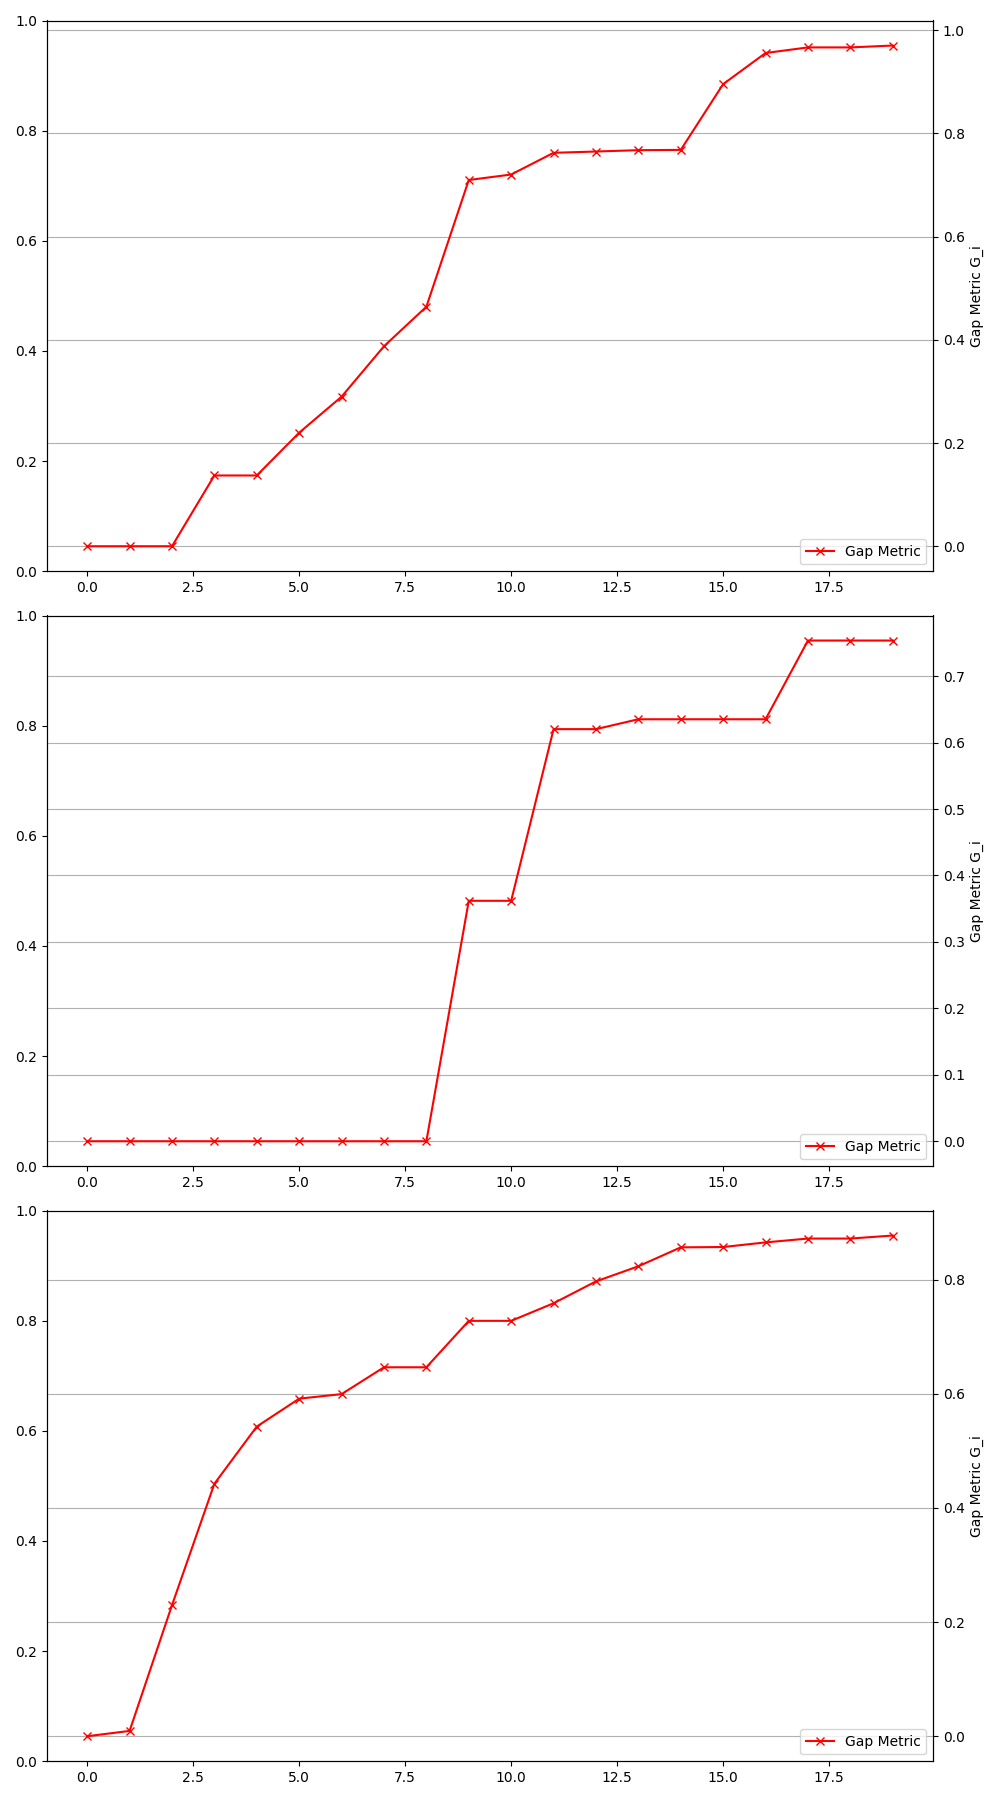
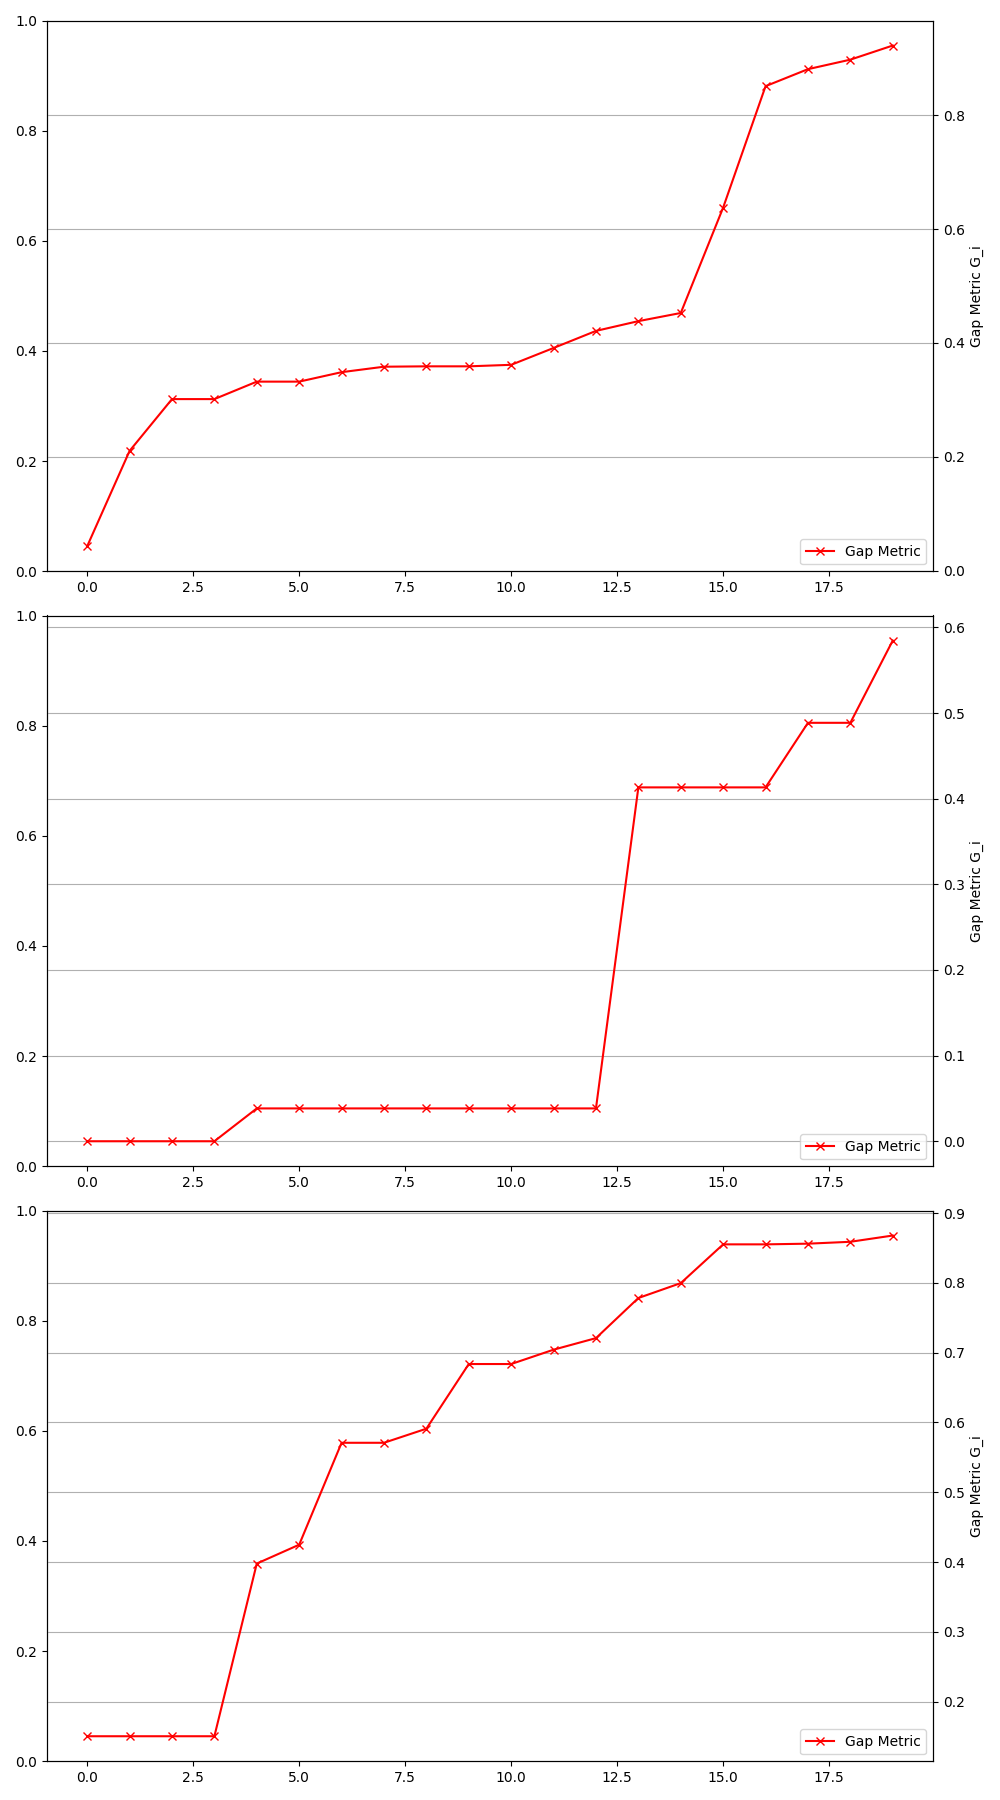
Yq

diff --git a/Code/yuanqing/test.py b/Code/yuanqing/test.py
@@ -3,12 +3,10 @@ import gpytorch
 import torch
 import numpy as np
 import matplotlib.pyplot as plt
-from botorch.test_functions import Hartmann, Ackley, Rosenbrock, Levy, Powell
-from botorch.models import SingleTaskGP
-from gpytorch.mlls.exact_marginal_log_likelihood import ExactMarginalLogLikelihood
-from botorch import fit_gpytorch_mll
+from botorch.test_functions import Hartmann, Ackley
 from botorch.acquisition import ExpectedImprovement, UpperConfidenceBound, ProbabilityOfImprovement
 from botorch.optim import optimize_acqf
+from rfgp_yq import RfgpModel
 import warnings
 
 warnings.filterwarnings("ignore")
@@ -21,19 +19,6 @@ true_maxima = {
     "Ackley": 0.0,  
 }
 
-class RFF:
-    def __init__(self, input_dim, num_features, sigma=1.0):
-        self.input_dim = input_dim
-        self.num_features = num_features
-        self.sigma = sigma
-        self.W = np.random.normal(scale=1.0/self.sigma, size=(self.input_dim, self.num_features))
-        self.b = np.random.uniform(0, 2 * np.pi, size=self.num_features)
-
-    def transform(self, X):
-        norm = 1.0 / np.sqrt(self.num_features)
-        projection = X @ self.W + self.b
-        return norm * np.sqrt(2.0) * np.concatenate([np.cos(projection), np.sin(projection)], axis=-1)
-
 def gap_metric(f_start, f_current, f_star):
     return np.abs((f_start - f_current) / (f_start - f_star))
 
@@ -41,79 +26,55 @@ def target_function(individuals):
     result = []
     for x in individuals:
         result.append(-1.0 * hart6(x))
-    return torch.tensor(result, dtype=torch.double)
+    return torch.tensor(result, dtype=torch.float)
 
 def generate_initial_data(n, n_dim):
-    train_x = torch.rand(n, n_dim, dtype=torch.double)  
+    train_x = torch.rand(n, n_dim, dtype=torch.float)  
     exact_obj = target_function(train_x).unsqueeze(-1)
     best_observed_value = exact_obj.max().item()
     return train_x, exact_obj, best_observed_value
 
 def fit_model(train_x, train_y, kernel_type):
-    if kernel_type == 'RBF':
-        covar_module = gpytorch.kernels.ScaleKernel(gpytorch.kernels.RBFKernel())
-    elif kernel_type == 'Matern':
-        covar_module = gpytorch.kernels.ScaleKernel(gpytorch.kernels.MaternKernel())
-    elif kernel_type == 'RQ':
-        covar_module = gpytorch.kernels.ScaleKernel(gpytorch.kernels.RQKernel())
-    else:
-        raise ValueError(f"Unknown kernel type: {kernel_type}")
+    model = RfgpModel(in_dim=train_x.shape[1], out_dim=1, J=20)
+    model.fit(train_x, train_y)
+    return model, None  
 
-    class CustomGP(SingleTaskGP):
-        def __init__(self, train_x, train_y):
-            super().__init__(train_x, train_y)
-            self.covar_module = covar_module
-
-    model = CustomGP(train_x, train_y)
-    mll = ExactMarginalLogLikelihood(model.likelihood, model)
-    fit_gpytorch_mll(mll)
-    return model, mll
-
-def calculate_weights(models, mlls, train_x, train_y):
-    log_likelihoods = np.array([mll(models[i](train_x), train_y).sum().item() for i, mll in enumerate(mlls)])
-    max_log_likelihood = np.max(log_likelihoods)
-    log_likelihoods -= max_log_likelihood  
-    weights = np.exp(log_likelihoods) / np.sum(np.exp(log_likelihoods))
-    return weights
+def calculate_weights(models, train_x, train_y):
+    return np.ones(len(models)) / len(models)
 
 def select_model(weights):
     return np.random.choice(len(weights), p=weights)
 
 def get_next_points(train_x, train_y, best_init_y, bounds, eta, n_points=1, gains=None, kernel_types=['RBF', 'Matern', 'RQ'], acq_func_types=['EI', 'UCB', 'PI']):
-
     models = []
-    mlls = []
-    for kernel in kernel_types:
-        model, mll = fit_model(train_x, train_y, kernel)
+    for _ in kernel_types:
+        model, _ = fit_model(train_x, train_y, None)
         models.append(model)
-        mlls.append(mll)
 
-    weights = calculate_weights(models, mlls, train_x, train_y)
+    weights = calculate_weights(models, train_x, train_y)
     selected_model_index = select_model(weights)
     selected_model = models[selected_model_index]
 
-    with gpytorch.settings.cholesky_jitter(1e-1):  # Adding jitter
-        EI = ExpectedImprovement(model=selected_model, best_f=best_init_y)
-        UCB = UpperConfidenceBound(model=selected_model, beta=0.1)
-        PI = ProbabilityOfImprovement(model=selected_model, best_f=best_init_y)
+    EI = ExpectedImprovement(model=selected_model, best_f=best_init_y)
+    UCB = UpperConfidenceBound(model=selected_model, beta=0.1)
+    PI = ProbabilityOfImprovement(model=selected_model, best_f=best_init_y)
 
     acq_funcs = {'EI': EI, 'UCB': UCB, 'PI': PI}
     acquisition_functions = [acq_funcs[acq] for acq in acq_func_types]
     
     candidates_list = []
     for acq_function in acquisition_functions:
-        try:
-            with gpytorch.settings.cholesky_jitter(1e-1):
-                candidates, acq_value = optimize_acqf(
-                    acq_function=acq_function, 
-                    bounds=bounds, 
-                    q=n_points, 
-                    num_restarts=10, 
-                    raw_samples=16, 
-                    options={"batch_limit": 5, "maxiter": 200}
-                )
-        except Exception as e:
-            print(f"Error optimizing acquisition function {acq_function}: {e}")
+        # try:
+        candidates, acq_value = optimize_acqf(
+            acq_function=acq_function, 
+            bounds=bounds, 
+            q=n_points, 
+            num_restarts=10, 
+            raw_samples=16, 
+            options={"batch_limit": 5, "maxiter": 200}
+        )
+        # except Exception as e:
+            # print(f"Error optimizing acquisition function {acq_function}: {e}")
         candidates_list.append(candidates)
 
     logits = np.array(gains)
@@ -130,7 +91,6 @@ def update_data(train_x, train_y, new_x, new_y):
     return train_x, train_y
 
 def run_experiment(n_iterations, kernel_types, acq_func_types, initial_data):
-    # np.random.seed(42)
     bounds = initial_data["bounds"]
     train_x, train_y, best_init_y = initial_data["train_x"], initial_data["train_y"], initial_data["best_init_y"]
     
@@ -173,14 +133,6 @@ def plot_results(results, titles, test_function_name, true_maximum):
     fig, axs = plt.subplots(3, 1, figsize=(10, 18))
 
     for i, (best_observed_values, chosen_acq_functions, selected_models, true_maximum, gap_metrics) in enumerate(results):
-        # axs[i].plot(best_observed_values, marker='o', linestyle='-', color='b', label='Best Objective Value')
-        # axs[i].axhline(y=true_maximum, color='k', linestyle='--', label='True Maxima')
-        # axs[i].set_title(titles[i])
-        # axs[i].set_xlabel("Iteration")
-        # axs[i].set_ylabel("Best Objective Function Value")
-        # axs[i].legend()
-        # axs[i].grid(True)
-
         ax2 = axs[i].twinx()
         ax2.plot(gap_metrics, marker='x', linestyle='-', color='r', label='Gap Metric')
         ax2.set_ylabel("Gap Metric G_i")
@@ -188,13 +140,12 @@ def plot_results(results, titles, test_function_name, true_maximum):
         ax2.grid(True)
 
     plt.tight_layout()
-    plt.savefig(f"test_res.png")
-    # plt.show()
+    # plt.savefig(f"test_res.png")
+    plt.show()
 
 n_iterations = 20
 
-ackley_bounds = torch.tensor([[-32.768, -32.768], [32.768, 32.768]], dtype=torch.double)
-hart6_bounds = torch.tensor([[0.0, 0.0, 0.0, 0.0, 0.0, 0.0], [1.0, 1.0, 1.0, 1.0, 1.0, 1.0]], dtype=torch.double)
+hart6_bounds = torch.tensor([[0.0, 0.0, 0.0, 0.0, 0.0, 0.0], [1.0, 1.0, 1.0, 1.0, 1.0, 1.0]], dtype=torch.float)
 init_x, init_y, best_init_y = generate_initial_data(10, n_dim=hart6_bounds.size(1))
 initial_data = {
     "train_x": init_x,
@@ -205,13 +156,10 @@ initial_data = {
 }
 
 results1 = run_experiment(n_iterations, ['RBF', 'Matern', 'RQ'], ['EI', 'UCB', 'PI'], initial_data)
-
 results2 = run_experiment(n_iterations, ['RBF', 'Matern', 'RQ'], ['EI'], initial_data)
-
 results3 = run_experiment(n_iterations, ['Matern'], ['EI', 'UCB', 'PI'], initial_data)
 
 results = [results1, results2, results3]
 titles = ["All Models and All Acquisition Functions", "All Models and Only EI", "Only Matern Model and All Acquisition Functions"]
 
 plot_results(results, titles, "Hartmann", true_maxima['Hartmann'])
-

diff --git a/Code/yuanqing/rfgp_yq.py b/Code/yuanqing/rfgp_yq.py
@@ -217,21 +217,49 @@ class RfgpModel():
     ###################
     ## just from here
     ##########
-    def posterior(self, X: Tensor, posterior_transform = None, *args, **kwargs) -> Tensor:
-        predictive = Predictive(self.model, guide = self.guide, num_samples=1)
+    # def posterior(self, X: Tensor, posterior_transform = None, *args, **kwargs) -> Tensor:
+    #     predictive = Predictive(self.model, guide = self.guide, num_samples=1)
+    #     preds = predictive(X)
+    #     # print(f"preds: {preds}")
+    #     y_pred = preds['obs'].squeeze().detach()
+    #     # print(y_pred.shape)
+    #     # print(y_pred.mean(axis = 0))
+    #     # print(np.cov(y_pred.squeeze(), rowvar=False))
+    #     cov_m = torch.tensor(np.cov(y_pred.squeeze(), rowvar=False))
+    #     #add a small constant for positive semi definite
+    #     eps = 1e-6  # Small positive value
+    #     cov_m += torch.eye(cov_m.shape[0]) * eps
+    #     # print(f"cov_m : {cov_m.shape}")
+    #     # y_pred = preds['obs'].cpu().detach().numpy().mean(axis=0)
+    #     # posterior = GPyTorchPosterior(TorchPosterior(Posterior(x=X,model=self.model,guide=self.guide)))
+    #     posterior = GPyTorchPosterior(torch.distributions.MultivariateNormal(loc=y_pred.mean(axis = 0),covariance_matrix= cov_m))#有空了给他开根号
+    #     # print(posterior.mean, posterior.variance)
+    #     return posterior #y_pred
+
+    def posterior(self, X: Tensor, posterior_transform=None, *args, **kwargs) -> GPyTorchPosterior:
+        predictive = Predictive(self.model, guide=self.guide, num_samples=100)
         preds = predictive(X)
-        print(f"preds: {preds}")
-        y_pred = preds['obs'].squeeze().detach()
-        print(y_pred.shape)
-        # print(y_pred.mean(axis = 0))
-        # print(np.cov(y_pred.squeeze(), rowvar=False))
-        cov_m = torch.tensor(np.cov(y_pred.squeeze(), rowvar=False))
-        print(f"cov_m : {cov_m.shape}")
-        # y_pred = preds['obs'].cpu().detach().numpy().mean(axis=0)
-        # posterior = GPyTorchPosterior(TorchPosterior(Posterior(x=X,model=self.model,guide=self.guide)))
-        posterior = GPyTorchPosterior(torch.distributions.MultivariateNormal(loc=y_pred.mean(axis = 0),covariance_matrix= cov_m))#有空了给他开根号
-        # print(posterior.mean, posterior.variance)
-        return posterior #y_pred
+        y_pred = preds['obs'].detach()  # Shape: [num_samples, batch_size, output_dim]
+
+        # Calculate mean across samples
+        mean = y_pred.mean(dim=0)  # Shape: [batch_size, output_dim]
+
+        # Calculate covariance
+        y_centered = y_pred - mean.unsqueeze(0)
+        cov_m = torch.bmm(y_centered.transpose(1, 2), y_centered).mean(dim=0) / (y_pred.size(0) - 1)
+
+        # Ensure positive definiteness
+        eps = 1e-6
+        cov_m += torch.eye(cov_m.size(0)) * eps
+
+        # If we have a batch of inputs, we need to create a batch of MultivariateNormal distributions
+        if mean.dim() == 2:
+            batch_mvn = torch.distributions.MultivariateNormal(loc=mean, covariance_matrix=cov_m)
+        else:
+            # If we have a single input, we need to squeeze the batch dimension
+            batch_mvn = torch.distributions.MultivariateNormal(loc=mean.squeeze(), covariance_matrix=cov_m.squeeze())
+
+        return GPyTorchPosterior(batch_mvn)
 
 # class Posterior():
 #     def __init__(self):
@@ -252,7 +280,7 @@ class RfgpModel():
 if __name__ == "__main__":
 
     cwd = os.getcwd()
-    print(cwd)
+    # print(cwd)
 
     X_train_path = os.path.join(cwd, "synthetic_1_fold_1_X_train.txt")
     X_test_path = os.path.join(cwd, "synthetic_1_fold_1_X_test.txt")
@@ -274,7 +302,7 @@ if __name__ == "__main__":
     y_test = torch.from_numpy(y_val).float()
 
 
-    print(y_train.shape)
+    # print(y_train.shape)
 
     wst = RfgpModel(in_dim=1, out_dim=6, J=10)
     # print(wst.fit)
@@ -283,4 +311,5 @@ if __name__ == "__main__":
     # predictive1 = Predictive(wst.model, guide=wst.guide, num_samples=5)
     # preds1 = predictive1(x_test)
     # y_pred1 = preds1['obs']
-    print(wst.posterior(X=x_test))
+    print(type(wst))
+    # print(wst.posterior(X=x_test))

diff --git a/Code/yuanqing/yq_botorch_gp_hedge.py b/Code/yuanqing/yq_botorch_gp_hedge.py
@@ -19,21 +19,20 @@ hart6 = Hartmann(dim=6)#hartmann is base line
 def target_function(individuals):
     result = []
     for x in individuals:
-        result.append(x ** 2)
+        result.append(-1.0 * hart6(x))
     return torch.tensor(result)
 
 def generate_initial_data(n=10):
-    train_x = torch.rand(n, 1, dtype=torch.double)#改成float
+    train_x = torch.rand(n, 6, dtype=torch.double)#改成float
     exact_obj = target_function(train_x).unsqueeze(-1)
     best_observed_value = exact_obj.max().item()
     return train_x, exact_obj, best_observed_value
 
 init_x, init_y, best_init_y = generate_initial_data(20)
-init_x = torch.tensor(init_x).float()
-init_y = torch.tensor(init_y).float().squeeze()
+init_x = torch.tensor(init_x, requires_grad=True).float()
+init_y = torch.tensor(init_y, requires_grad=True).float().squeeze()
 best_init_y = torch.tensor(best_init_y).float().squeeze()
-# bounds = torch.tensor([[0., 0., 0., 0., 0., 0.], [1., 1., 1., 1., 1., 1.]])  
-bounds = torch.tensor([[0.], [1.]])
+bounds = torch.tensor([[0., 0., 0., 0., 0., 0.], [1., 1., 1., 1., 1., 1.]])  
 gains = np.zeros(3)
 eta = 0.1  
 def get_next_points(init_x, init_y, best_init_y, bounds, n_points=1, gains=None):
@@ -41,8 +40,8 @@ def get_next_points(init_x, init_y, best_init_y, bounds, n_points=1, gains=None)
     # mll = ExactMarginalLogLikelihood(single_model.likelihood, single_model)
     # fit_gpytorch_mll(mll)
     #replace these lines with
-    single_model = RfgpModel(1,1,20)
-    single_model.fit(init_x, init_y)
+    single_model = RfgpModel(6,1,20)
+    single_model.fit(init_x.requires_grad_(), init_y)
 
     EI = ExpectedImprovement(model=single_model, best_f=best_init_y)
     UCB = UpperConfidenceBound(model=single_model, beta=0.1)
@@ -51,9 +50,10 @@ def get_next_points(init_x, init_y, best_init_y, bounds, n_points=1, gains=None)
     acquisition_functions = [EI, UCB, PI]
     
     candidates_list = []
+    print(f"Starting")
     for acq_function in acquisition_functions:
-        # with torch.no_grad():
-        candidates, _ = optimize_acqf(acq_function=acq_function, bounds=bounds, q=n_points, num_restarts=20, raw_samples=512)
+        candidates, _ = optimize_acqf(acq_function=acq_function, bounds=bounds, q=n_points, num_restarts=20, raw_samples=512, options={"batch_limit": 5, "maxiter": 200})
+        print(f"Candidates: {candidates}")
         candidates_list.append(candidates)
 
     logits = np.array(gains)
@@ -114,4 +114,3 @@ print(f"Best location of observed result: {best_candidate}")
 plot_best_observed(best_observed_values)
 
 plot_chosen_acq_functions(chosen_acq_functions)
-
